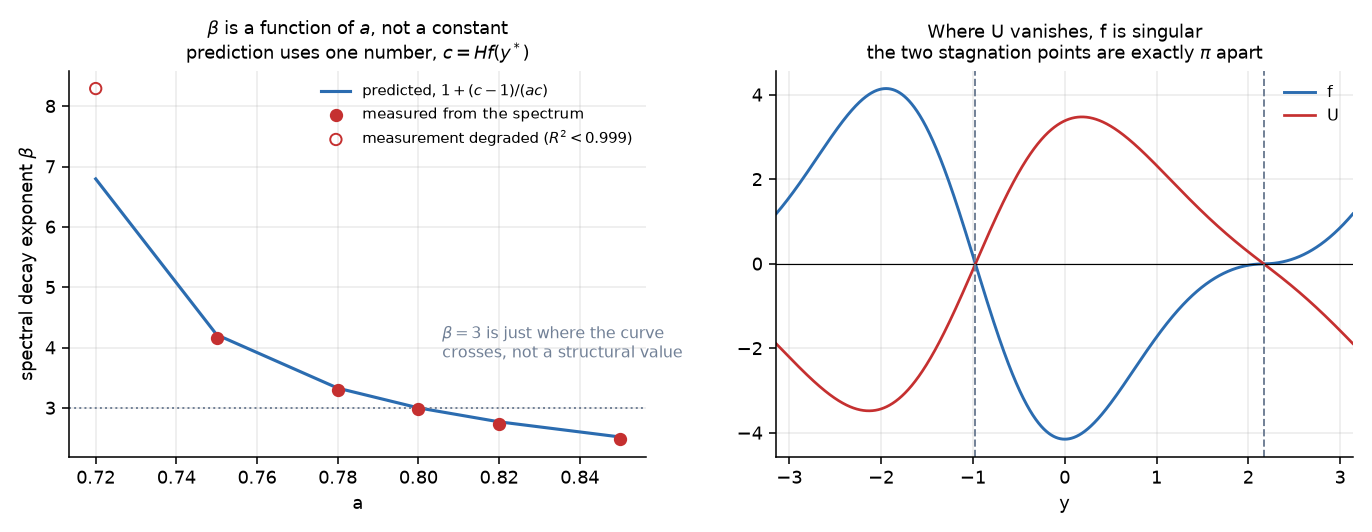
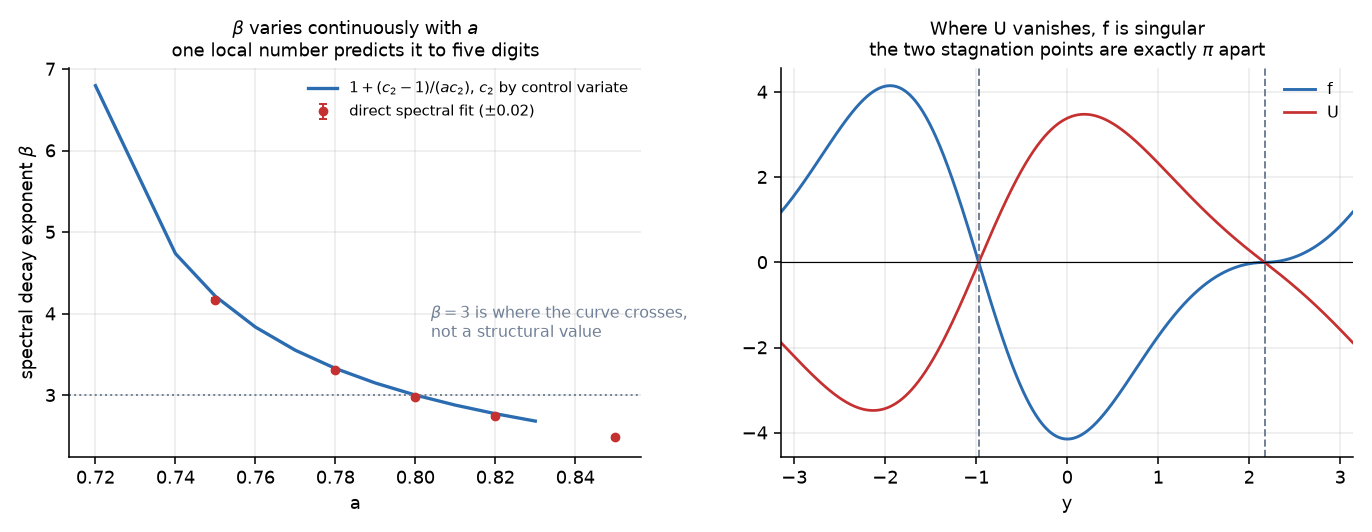
Add the five figures to the paper, and refresh two that had gone stale
Figures now sit in the sections that argue from them: blowup times and
T(a) in the regimes section, the normalised spectra alongside the
frozen versus narrowing distinction, the profile with its Newton
convergence and spectrum in the profile section, the Jacobian spectrum
with the stability result, and beta(a) with the control variate.
Captions are self contained. graphicspath points at the repository root
so the figures are not duplicated.

Two of them no longer matched the paper's conclusions and were
regenerated.

fig_profile drew its reference line at k^-3.05, which was the biased
wide window fit later retracted. It now uses beta = 3.00242 from the
stagnation point relation with c2 fixed by the control variate, and the
caption says the exponent is predicted rather than fitted to that
curve. The panel title also said "roughly C^2" where the correct
statement is C^1,1.

fig_beta plotted the pre correction predictions against the direct
spectral fits as though the latter were the check on the former. That
reads backwards now: the relation is four orders more accurate than the
fits. It now shows the control variate curve over eleven values of a
with the spectral fits as points carrying their real 2e-2 window
sensitivity as error bars.

diff --git a/paper/degregorio.tex b/paper/degregorio.tex
@@ -4,6 +4,7 @@
 \usepackage{amsmath,amssymb,amsthm}
 \usepackage{booktabs}
 \usepackage{graphicx}
+\graphicspath{{../}{./}}
 \usepackage[colorlinks=true,linkcolor=blue,citecolor=blue,urlcolor=blue]{hyperref}
 
 \newtheorem{proposition}{Proposition}
@@ -205,6 +206,19 @@ global existence appears below $a=1$; instead $T$ diverges as $a\to 1$.}
 \label{tab:times}
 \end{table}
 
+\begin{figure}[htbp]
+\centering
+\includegraphics[width=\textwidth]{fig_blowup.png}
+\caption{Left: reciprocal amplitude
+$\norm{\omega_0}_\infty/\norm{\omega(t)}_\infty$ for several values of $a$. A
+straight line reaching zero is blowup with rate exponent one. Right: the
+blowup time $T(a)$ from $\omega_0 = \sin x$, on a logarithmic scale. Both
+endpoints are known exactly, $T(0)=2$ and $T(1)=\infty$, and the curve runs
+between them without any transition to global existence at intermediate $a$.
+The agreement of $T(1/2)$ with $\pi$ is marked but unexplained.}
+\label{fig:blowup}
+\end{figure}
+
 \begin{remark}
 The value at $a=1/2$ agrees with $\pi$ to $1.2\times10^{-11}$ and continues to
 do so under refinement across an eightfold range in $N$. We have no explanation
@@ -223,8 +237,23 @@ carries an amplitude of $10^6$ without strain. At $a=0.4$ the same comparison
 moves by $0.72$ over a single decade and resolution is exhausted by
 $\norm{\omega}_\infty = 5.8\times 10^3$.
 
+\begin{figure}[htbp]
+\centering
+\includegraphics[width=\textwidth]{fig_frozen.png}
+\caption{Normalised spectra
+$\abs{\hat\omega_k}/\max_k\abs{\hat\omega_k}$ at successive decades of
+amplitude growth. Taking the modulus removes the translation, so no alignment
+of the peaks is required and the comparison assumes nothing about the profile
+shape. Left, $a=0.4$: the curves spread steadily as the peak narrows, and
+resolution is exhausted by $\norm{\omega}_\infty = 5.8\times10^3$. Right,
+$a=0.8$: five curves spanning four decades of growth lie on top of one
+another, so the shape is fixed and only the height diverges.}
+\label{fig:frozen}
+\end{figure}
+
 We refer to the first behaviour as a \emph{frozen} profile and the second as
-\emph{narrowing}. Only the frozen case is analysed below.
+\emph{narrowing}, illustrated in Figure \ref{fig:frozen}. Only the frozen case
+is analysed below.
 
 \section{The profile equation}
 \label{sec:profile}
@@ -294,6 +323,21 @@ $4096$ & $4.154779433$ & $4.154737187$ & $1.0\times10^{-5}$\\
 \label{tab:amp}
 \end{table}
 
+\begin{figure}[htbp]
+\centering
+\includegraphics[width=\textwidth]{fig_profile.png}
+\caption{The blowup profile at $a=0.8$. Left: $f(y)$, broad and gentle, with
+$\norm{f}_\infty = 4.16$ against $\max\abs{f'} = 7.04$, and exactly odd about
+each stagnation point. Centre: the Newton residual for \eqref{eq:profile},
+starting from the profile taken directly out of the simulation, which already
+satisfies the equation to $1.3\times10^{-5}$; convergence is quadratic.
+Right: the profile spectrum on logarithmic axes against
+$k^{-\beta}$ with $\beta = 3.00242$ from \eqref{eq:beta}, the exponent
+predicted in Section \ref{sec:control} rather than fitted to this curve. The
+decay is algebraic, not exponential, so the profile is not analytic.}
+\label{fig:profile}
+\end{figure}
+
 The shared value drifts by $1.5\times10^{-3}$ between the two resolutions,
 which is not Newton finding different branches: re-solving at $N=4096$ from the
 interpolated $N=2048$ solution returns the same answer, and mapping it back
@@ -352,6 +396,20 @@ to the two symmetry directions, which is the precise sense in which the
 dynamics selects it, and is consistent with a simulation from $\sin x$ reaching
 it without tuning. The same test applied to profiles taken from simulations at
 $a=0.65,0.70,0.75,0.80$ returns stability in every case.
+
+\begin{figure}[htbp]
+\centering
+\includegraphics[width=0.72\textwidth]{fig_spectrum.png}
+\caption{Spectrum of the linearisation \eqref{eq:renorm} about the $a=0.8$
+profile, so that the abscissa is a growth rate in renormalised time $s$. The
+two marked eigenvalues are forced by symmetry, at $1$ with eigenvector $f$
+(freedom to shift the blowup time) and at $0$ with eigenvector $f'$
+(translation), both verified against Proposition \ref{prop:forced} to
+$10^{-11}$ or better. Nothing else lies in the closed right half plane. The
+modes omitted from the view are the high wavenumber ones, strung along
+$\mathrm{Re}\,\lambda \approx -1$ and stable.}
+\label{fig:spectrum}
+\end{figure}
 
 We note two limitations. The leading stable eigenvalue does not converge in $N$,
 taking values $-0.54$, $-0.146$, $-0.41$ at $N=512,1024,2048$, so the rate of
@@ -423,8 +481,8 @@ growth of this deviation at larger $a$ tracks the profile's own accuracy, which
 degrades as the second exponent falls toward one.
 
 \paragraph{Two stagnation points, exactly $\pi$ apart.} Numerically $U$ has
-exactly two zeros and their separation is $\pi$ to within $9\times10^{-16}$ for
-every $a$ tested. This is forced. If $U(y_1)=0$ and $U(y_1+\pi)=0$, then
+exactly two zeros, shown with the profile in Figure \ref{fig:beta}, and their
+separation is $\pi$ to within $9\times10^{-16}$ for every $a$ tested. This is forced. If $U(y_1)=0$ and $U(y_1+\pi)=0$, then
 expanding both conditions in Fourier modes and adding annihilates the odd
 modes while subtracting annihilates the even ones, so the even mode part and
 the odd mode part of $U$ must each vanish at $y_1$ separately. That is two
@@ -496,6 +554,21 @@ spread of the corrected values across resolutions and measures self
 consistency, not residual systematic error.}
 \label{tab:c2}
 \end{table}
+
+\begin{figure}[htbp]
+\centering
+\includegraphics[width=\textwidth]{fig_beta.png}
+\caption{Left: the spectral decay exponent $\beta$ against $a$, from
+\eqref{eq:beta} with $c_2$ fixed by the control variate. The curve is smooth
+and $\beta=3$ is simply where it crosses. Direct fits of
+$\abs{\hat f_k}\sim k^{-\beta}$ to the spectrum are shown for contrast with
+error bars of $\pm 0.02$, which is their window sensitivity; the relation is
+four orders of magnitude more accurate than measuring the exponent directly.
+Right: the profile $f$ and its velocity $U$ at $a=0.8$. The dashed lines mark
+the two zeros of $U$, which are exactly $\pi$ apart, and $f$ vanishes at both
+as Proposition \ref{prop:exponent} requires.}
+\label{fig:beta}
+\end{figure}
 
 \begin{remark}[$\beta \ne 3$]
 The value $\mu_2 = 2$, and hence $\beta=3$, would require

diff --git a/figures.py b/figures.py
@@ -153,13 +153,15 @@ def fig_profile():
     ax3.loglog(k[sel], amp[sel] / amp.max(), color=BLUE, lw=1.5,
                label="profile spectrum")
     kk = k[sel][k[sel] > 8].astype(float)
-    ref = (kk / 8.0) ** -3.05 * float(amp[8] / amp.max())
+    # Exponent from the stagnation point relation with c2 fixed by the control
+    # variate, not from a fit to this curve.
+    ref = (kk / 8.0) ** -3.0024227 * float(amp[8] / amp.max())
     ax3.loglog(kk, ref, ls="--", color=RED, lw=1.3,
-               label=r"$k^{-3.05}$")
+               label=r"$k^{-\beta}$, $\beta = 3.00242$")
     ax3.set_xlabel("wavenumber k")
     ax3.set_ylabel(r"$|\hat f_k| / \max_k |\hat f_k|$")
     ax3.set_title("The profile is not analytic\n"
-                  "algebraic decay means roughly $C^2$, no better", fontsize=9)
+                  r"algebraic decay means $C^{1,1}$, no better", fontsize=9)
     ax3.legend(fontsize=8, frameon=False)
 
     fig.tight_layout()
@@ -218,32 +220,34 @@ def fig_beta():
     simulation per point. Reproduced here rather than recomputed so that
     regenerating the figures stays cheap.
     """
-    av = np.array([0.72, 0.75, 0.78, 0.80, 0.82, 0.85])
-    pred = np.array([6.795385, 4.212834, 3.328739, 3.001668, 2.770433,
-                     2.519510])
-    meas = np.array([8.292435, 4.166818, 3.305475, 2.975974, 2.741212,
-                     2.482926])
-    r2 = np.array([0.95261, 0.99988, 0.99999, 0.99999, 0.99998, 0.99997])
+    # beta from the stagnation point relation with c2 fixed by the control
+    # variate (c2_form.py). Scatter runs 1.4e-14 at a = 0.72 to 9.5e-5 at 0.83,
+    # far below the line width.
+    av = np.array([0.72, 0.74, 0.75, 0.76, 0.77, 0.78, 0.79, 0.80, 0.81,
+                   0.82, 0.83])
+    beta = np.array([6.7953854, 4.7367448, 4.2128337, 3.8358720, 3.5513739,
+                     3.3288127, 3.1497568, 3.0024205, 2.8789178, 2.7737736,
+                     2.6830693])
+    # Direct spectral fits, for contrast. Window sensitivity is about 2e-2
+    # (beta_predict.py and residual2.py), which is the error bar drawn.
+    av_m = np.array([0.75, 0.78, 0.80, 0.82, 0.85])
+    meas = np.array([4.166818, 3.305475, 2.975974, 2.741212, 2.482926])
 
     fig, (ax1, ax2) = plt.subplots(1, 2, figsize=(9.8, 3.8))
 
-    good = r2 > 0.999
-    ax1.plot(av, pred, "-", color=BLUE, lw=1.6,
-             label=r"predicted, $1 + (c-1)/(ac)$")
-    ax1.scatter(av[good], meas[good], color=RED, s=34, zorder=5,
-                label="measured from the spectrum")
-    ax1.scatter(av[~good], meas[~good], facecolors="none", edgecolors=RED,
-                s=34, zorder=5, label=r"measurement degraded ($R^2 < 0.999$)")
+    ax1.plot(av, beta, "-", color=BLUE, lw=1.7,
+             label=r"$1 + (c_2-1)/(ac_2)$, $c_2$ by control variate")
+    ax1.errorbar(av_m, meas, yerr=0.02, fmt="o", color=RED, ms=4, lw=1,
+                 capsize=2, label=r"direct spectral fit ($\pm 0.02$)")
     ax1.axhline(3.0, ls=":", color=GREY, lw=1)
-    ax1.annotate(r"$\beta = 3$ is just where the curve"
-                 "\ncrosses, not a structural value",
-                 (0.803, 3.0), xytext=(6, 26), textcoords="offset points",
-                 fontsize=8, color=GREY)
+    ax1.annotate(r"$\beta = 3$ is where the curve crosses,"
+                 "\nnot a structural value", (0.80, 3.0),
+                 xytext=(8, 30), textcoords="offset points", fontsize=8,
+                 color=GREY)
     ax1.set_xlabel("a")
     ax1.set_ylabel(r"spectral decay exponent $\beta$")
-    ax1.set_title(r"$\beta$ is a function of $a$, not a constant"
-                  "\nprediction uses one number, "
-                  r"$c = Hf(y^*)$", fontsize=9)
+    ax1.set_title(r"$\beta$ varies continuously with $a$"
+                  "\none local number predicts it to five digits", fontsize=9)
     ax1.legend(fontsize=7.5, frameon=False)
 
     g, f, _, _ = solved_profile(a=0.8, n=2048)
